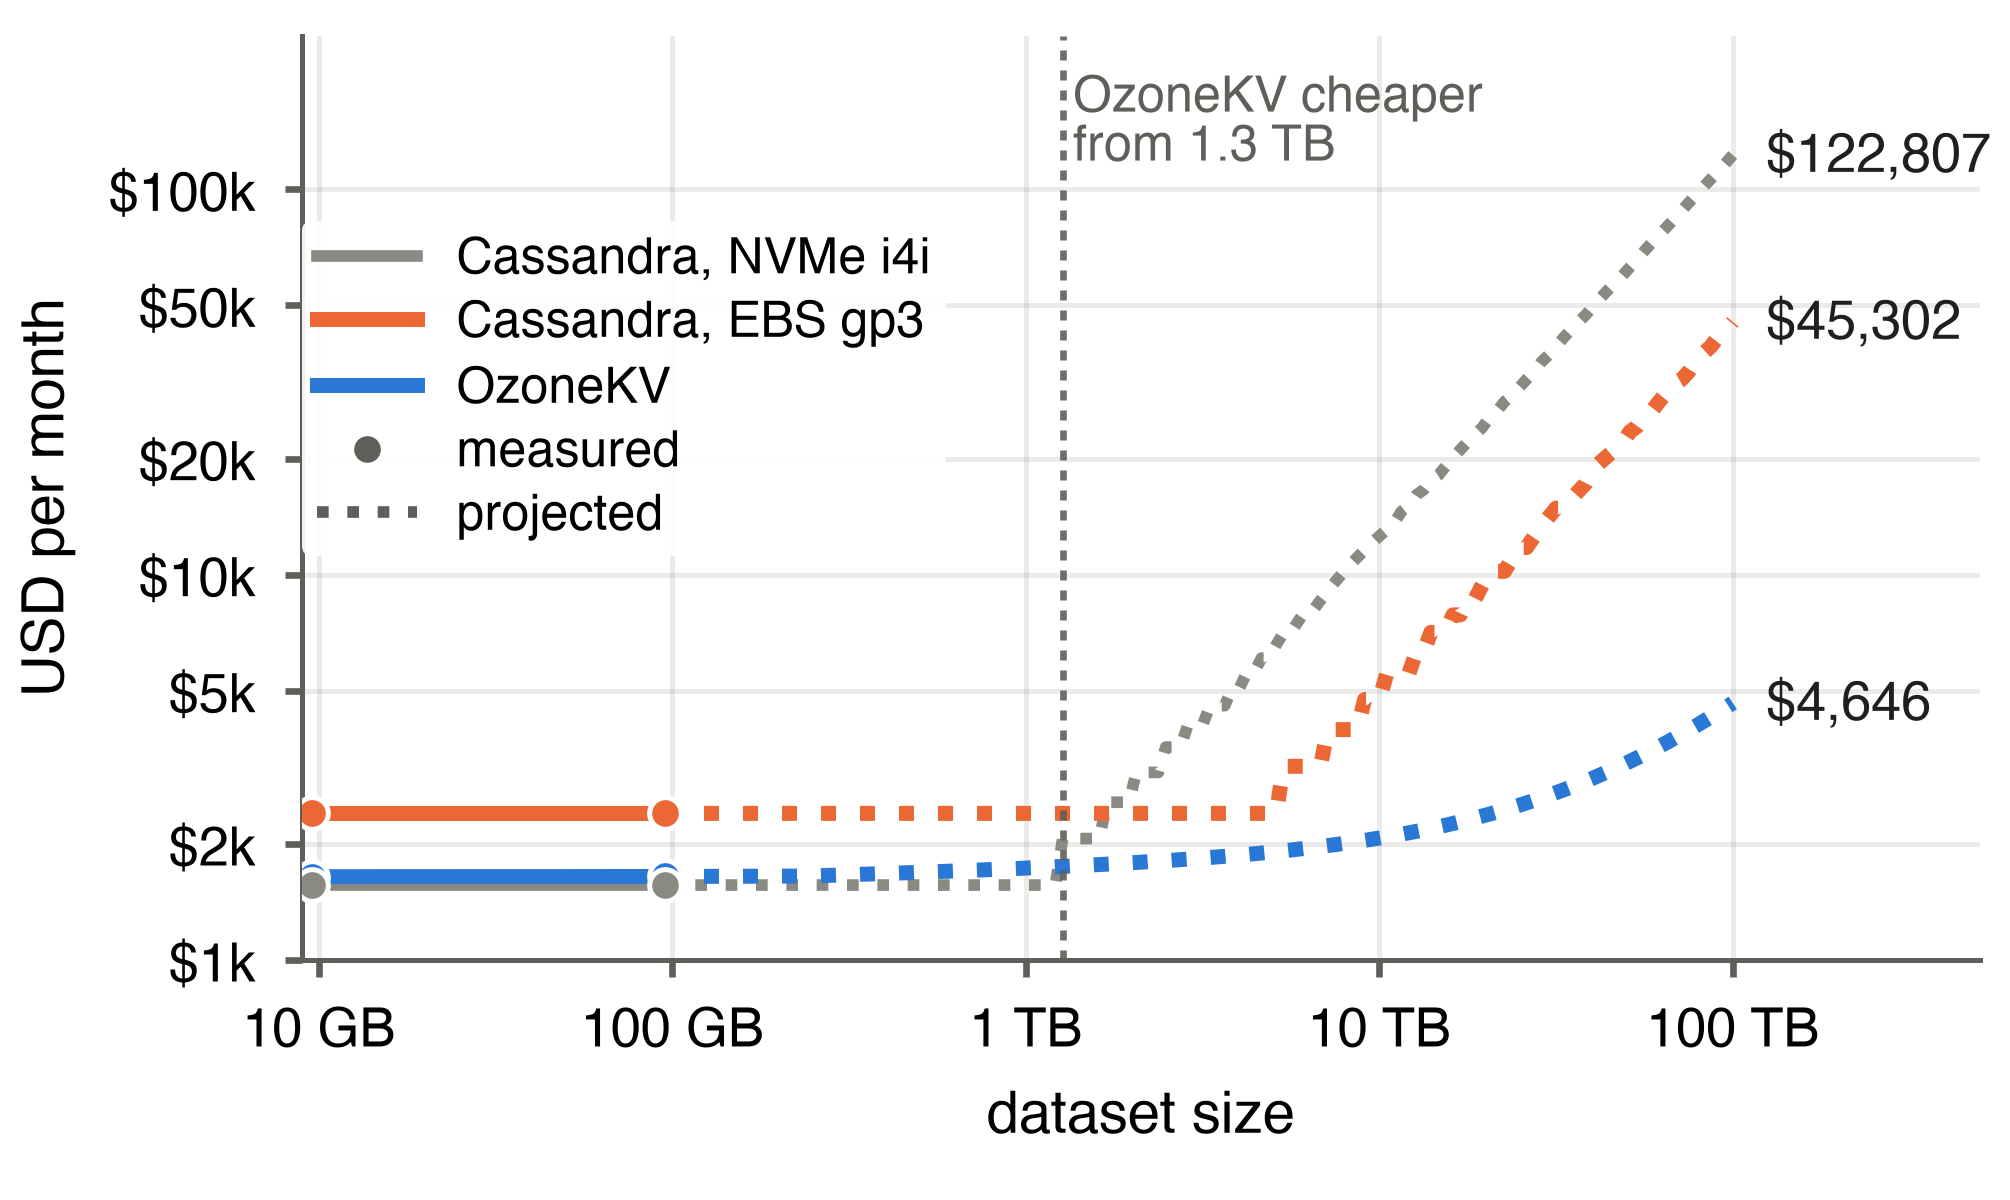
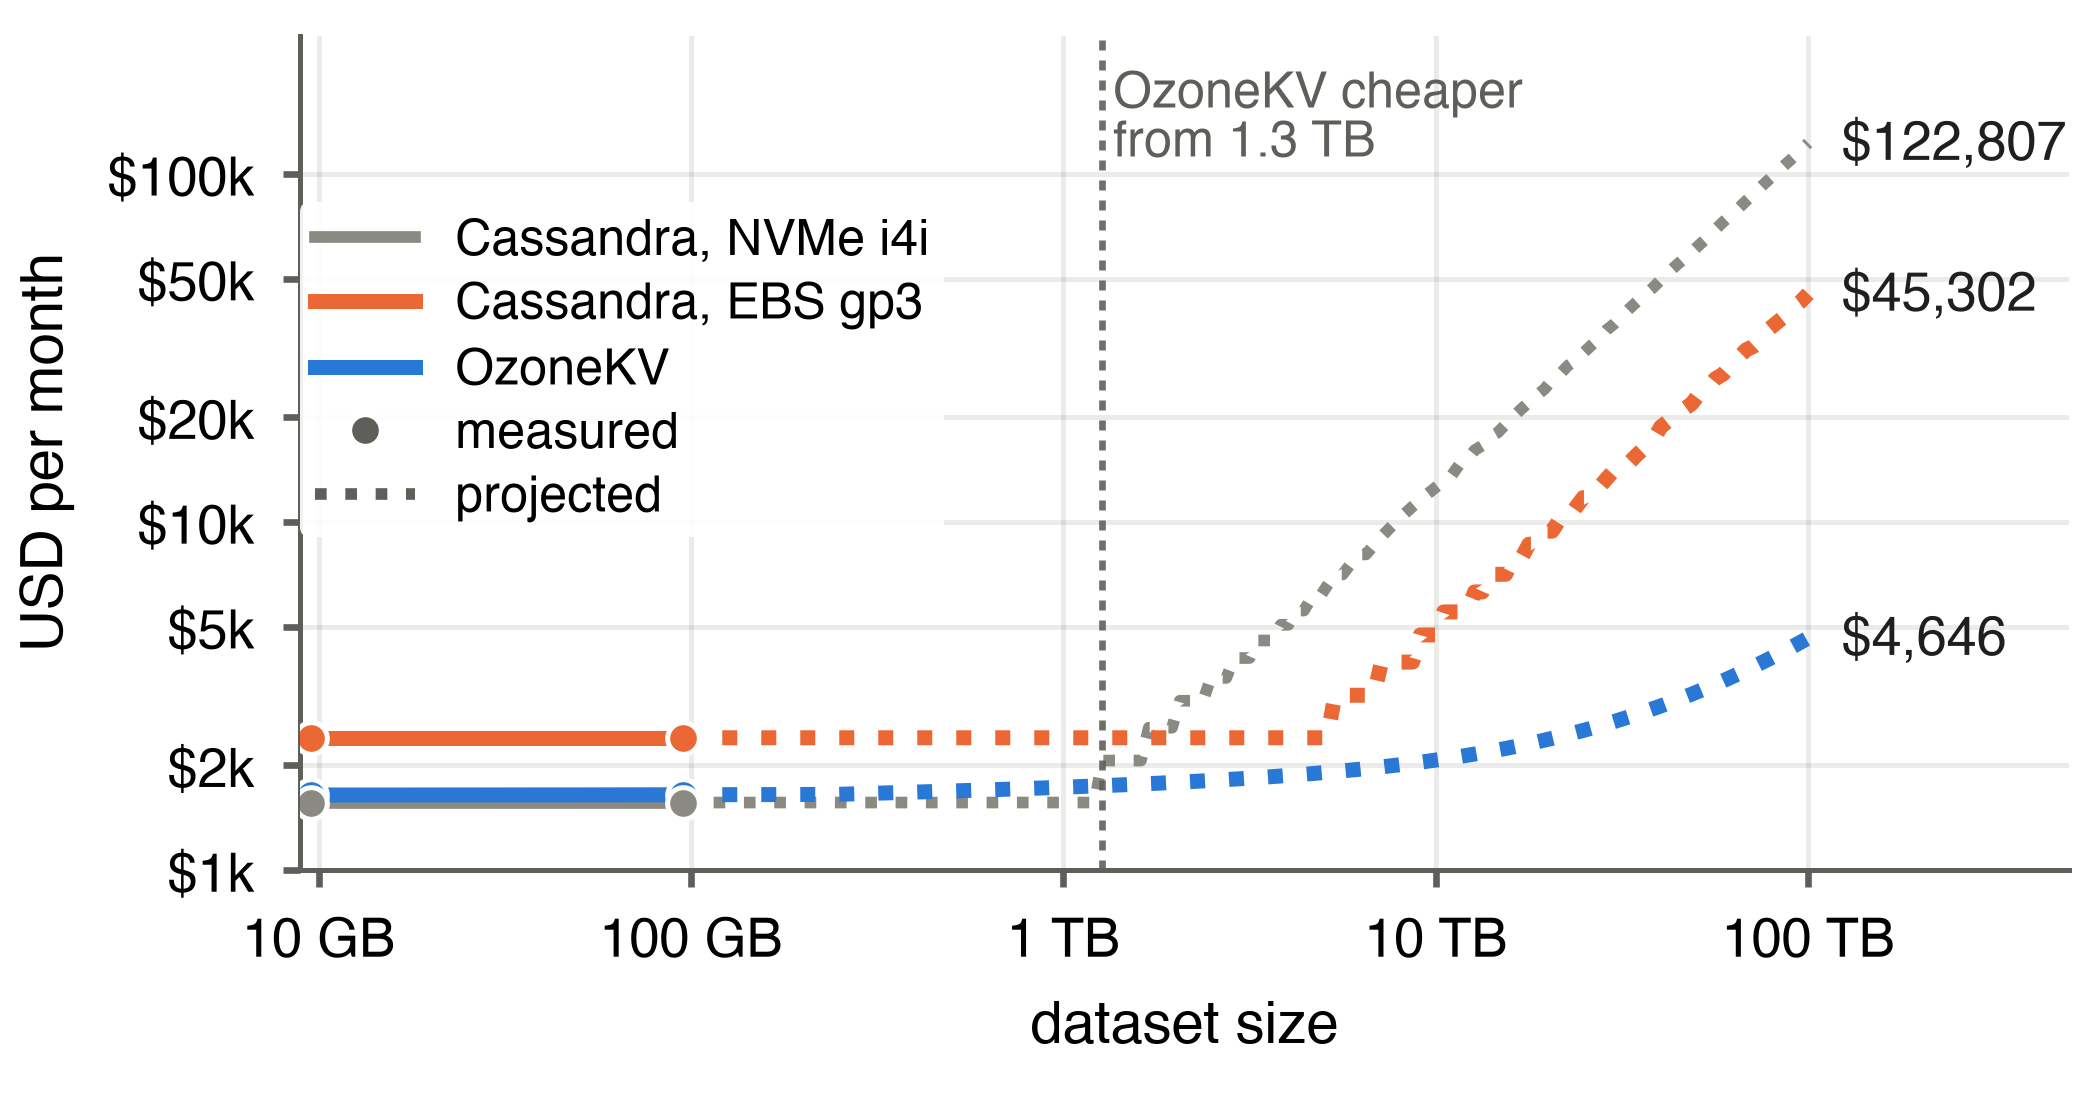
bench: paper cost figure column layout at the IEEE column width, 3.5 x 1.85 in
fig_cost_col drops into \includegraphics[width=\columnwidth] at true font
size on the IEEE template. Margins rebalanced for the new aspect.

Claude-Session: https://claude.ai/code/session_01NGxReJb9LDcmdrCuRqfn7h

diff --git a/bench/scripts/plot/paper_cost_figure.py b/bench/scripts/plot/paper_cost_figure.py
@@ -448,9 +448,9 @@ def main():
     plt.close(fig)
 
     # Single column: (a) alone.
-    fig, ax = plt.subplots(figsize=(3.35, 2.0))
+    fig, ax = plt.subplots(figsize=(3.5, 1.85))
     panel_a(ax, coef, model, prices, s, single=True)
-    fig.subplots_adjust(left=0.15, right=0.985, top=0.97, bottom=0.2)
+    fig.subplots_adjust(left=0.143, right=0.985, top=0.968, bottom=0.216)
     for ext in ("pdf", "png"):
         fig.savefig(f"{args.out}_col.{ext}")
         print(f"wrote {args.out}_col.{ext}")
